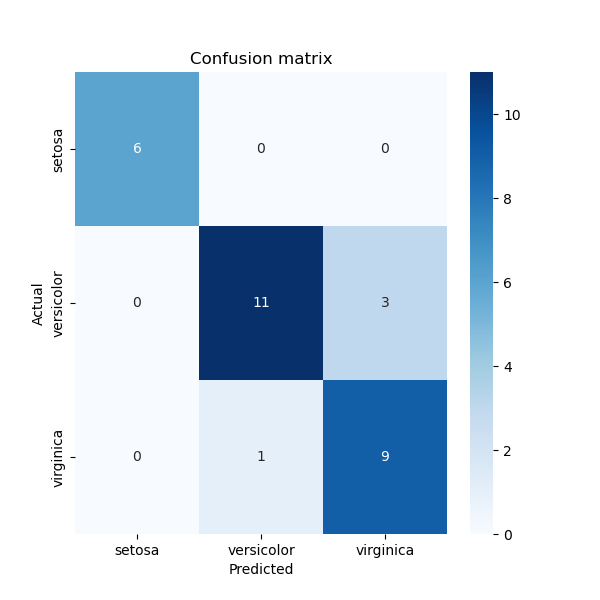
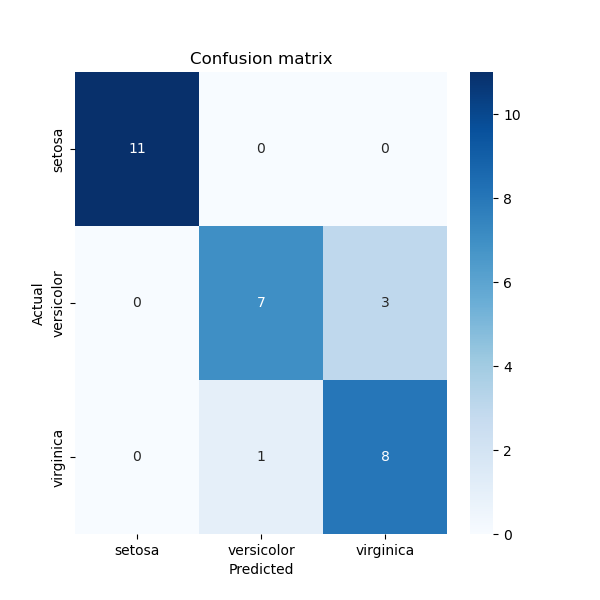
added more experiments

Changed region(s): [[0.12, 0.12, 0.54, 0.66], [0.63, 0.75, 0.66, 0.78]]

diff --git a/src/dt_iris.py b/src/dt_iris.py
@@ -27,14 +27,13 @@ y = iris.target
 X_train,X_test,y_train,y_test = train_test_split(X,y,test_size=0.2)
 
 # params for RandomForest Model
-MAX_DEPTH = 15  
-N_ESTIMATORS = 15
+MAX_DEPTH = 5
+N_ESTIMATORS = 3
 
 # mlflow.set_experiment("decision-tree-iris") # this makes the folder if it does not exist
 mlflow.set_tracking_uri("https://dagshub.com/kameshkotwani/mlflow-dsmp.mlflow")
 
-with mlflow.start_run(
-) as run:
+with mlflow.start_run() as run:
 
     dt = DecisionTreeClassifier(max_depth= MAX_DEPTH)
     
